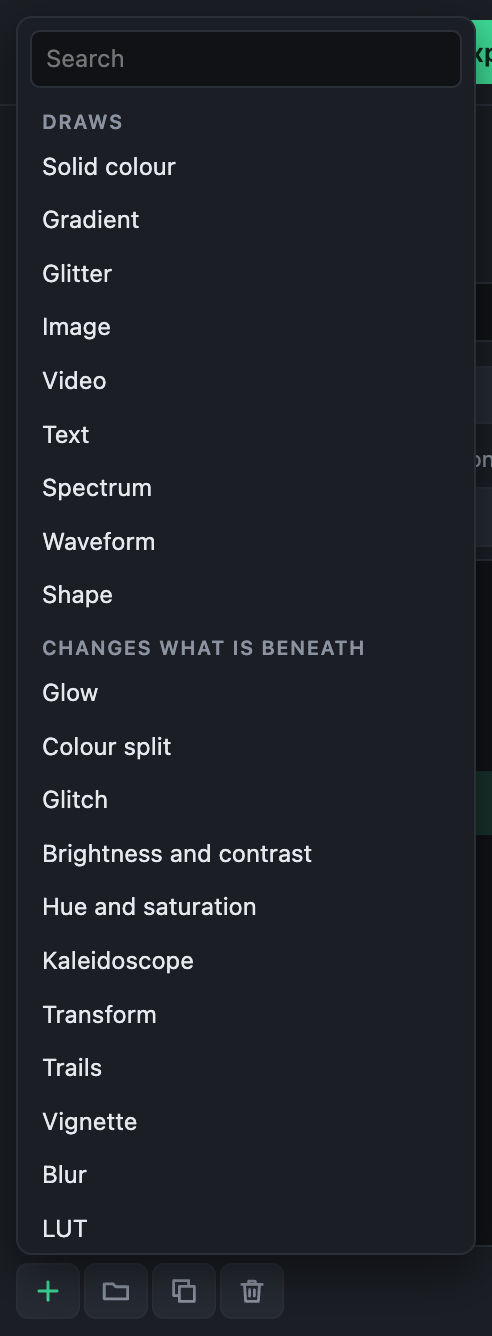
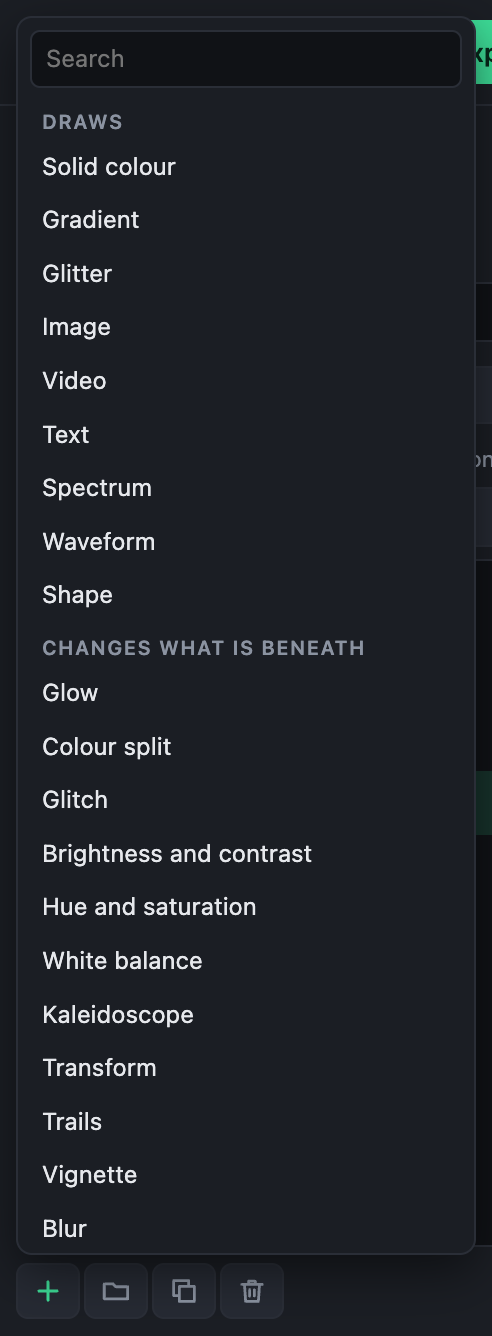
A White balance layer
An effect that warms or cools the colours beneath it and moves them
towards green or magenta, to correct a photo or video taken under the
wrong light; in a group with a picture, it changes only that picture.
Temperature and Tint each go from -1 to 1, and a grey keeps its
lightness. The scaling of red, green and blue is a LUT of two points a
side, which reproduces it exactly, so it runs on the LUT layer's path:
the graphics card, or else the processor.

Changed region(s): [[0.0915, 0.7058, 0.4268, 0.7672], [0.0915, 0.7979, 0.3049, 0.9513]]

diff --git a/src/visuals/draw.ts b/src/visuals/draw.ts
@@ -7,13 +7,13 @@
 //
 // Kept free of Node imports; it runs in a window.
 
-import { fromHsl, mixColours, parseHex, turnHue, type Colour } from './colour.ts';
+import { fromHsl, mixColours, parseHex, turnHue, whiteBalance, type Colour } from './colour.ts';
 import { BAND_COUNT, HIGHEST_HZ, LOWEST_HZ } from '../features.ts';
 import type { Values } from './expression.ts';
 import { fontStack } from './fonts.ts';
 import { hexOf, LAYER_TYPES, type PreparedLayer, type ResolvedParams, type TextValues } from './template.ts';
 import type { ClipTiming, Playback } from './clip.ts';
-import { applyLut, type Lut } from './lut.ts';
+import { applyLut, scalingLut, type Lut } from './lut.ts';
 import { lengthOf, shapeOutline } from './outline.ts';
 
 type Canvas = HTMLCanvasElement | OffscreenCanvas;
@@ -314,6 +314,7 @@ export class FrameDrawer {
       case 'trails': this.#trails(params, frame, memory); break;
       case 'blur': this.#blurred((Math.max(0, num(params, 'radius')) / 100) * this.#unit); break;
       case 'lut': this.#lut(params, frame); break;
+      case 'whiteBalance': this.#whiteBalance(params); break;
     }
     into.restore();
     if (!alone) return;
@@ -1320,7 +1321,31 @@ export class FrameDrawer {
   /** The picture beneath, through a colour lookup table. */
   #lut(params: ResolvedParams, frame: Frame) {
     const lut = frame.luts?.get(str(params, 'lut'));
-    if (!lut) return;
+    if (lut) this.#throughLut(lut);
+  }
+
+  /** White balances' LUTs, by their scalings, so that one that holds still is made, and sent to the graphics card, once. */
+  #balances = new Map<string, Lut>();
+
+  /** White balance: each of red, green and blue of the picture beneath scaled, through a LUT that does just that. */
+  #whiteBalance(params: ResolvedParams) {
+    const temperature = num(params, 'temperature');
+    const tint = num(params, 'tint');
+    if (temperature === 0 && tint === 0) return;
+    const gains = whiteBalance(temperature, tint);
+    const key = gains.map((gain) => gain.toFixed(4)).join();
+    let lut = this.#balances.get(key);
+    if (!lut) {
+      // One following the music is new each frame: only the last few are kept.
+      if (this.#balances.size >= 16) this.#balances.clear();
+      lut = scalingLut(gains);
+      this.#balances.set(key, lut);
+    }
+    this.#throughLut(lut);
+  }
+
+  /** The picture beneath through a LUT: on the graphics card, or else on the processor. */
+  #throughLut(lut: Lut) {
     const { width, height } = this.#canvas;
     if (this.#lutGl === undefined) this.#lutGl = LutGl.make();
     const result = this.#lutGl?.apply(this.#surface, lut, width, height);

diff --git a/test/lut.test.ts b/test/lut.test.ts
@@ -1,6 +1,7 @@
 import assert from 'node:assert/strict';
 import { test } from 'node:test';
-import { applyLut, packLut, parseCube, sampleLut, unpackLut } from '../src/visuals/lut.ts';
+import { applyLut, packLut, parseCube, sampleLut, scalingLut, unpackLut } from '../src/visuals/lut.ts';
+import { whiteBalance } from '../src/visuals/colour.ts';
 import { checkTemplate, folderLutsOf, keepFolderLuts, lutsOf, prepare } from '../src/visuals/template.ts';
 import { MUSIC_NAMES } from '../src/visuals/music.ts';
 
@@ -115,4 +116,28 @@ test('a template exported keeps the LUT folder\'s LUTs it names, once each, and 
   assert.equal(shared.fields[0].default, 'lut:Warm 2');
   assert.deepEqual(folderLutsOf(shared), []);
   assert.equal(template.layers[0].params.lut, 'lutfolder:Film/Warm', 'the template itself is left as it was');
+});
+
+test('a white balance warms, cools and tints, and leaves a grey as light as it was', () => {
+  const lightness = ([r, g, b]: number[]) => 0.2126 * r + 0.7152 * g + 0.0722 * b;
+  assert.deepEqual(whiteBalance(0, 0), [1, 1, 1]);
+  const warm = whiteBalance(1, 0);
+  assert.ok(warm[0] > 1 && warm[2] < 1 && warm[0] > warm[1] && warm[1] > warm[2], `warmer is more red and less blue: ${warm}`);
+  const cool = whiteBalance(-1, 0);
+  assert.ok(cool[2] > cool[1] && cool[1] > cool[0], `cooler is more blue: ${cool}`);
+  const magenta = whiteBalance(0, 1);
+  assert.ok(magenta[1] < magenta[0] && Math.abs(magenta[0] - magenta[2]) < 1e-12, `magenta is less green: ${magenta}`);
+  for (const gains of [warm, cool, magenta, whiteBalance(0, -1), whiteBalance(0.4, -0.7)]) assert.ok(Math.abs(lightness(gains) - 1) < 1e-12);
+  assert.deepEqual(whiteBalance(5, -5), whiteBalance(1, -1), 'past the ends of the sliders it goes no further');
+});
+
+test('a LUT of two points a side scales each channel exactly, cut off only at full', () => {
+  const lut = scalingLut([1.2, 1, 0.5]);
+  for (const [r, g, b] of [[0, 0, 0], [0.5, 0.25, 1], [0.8, 0.9, 0.3], [1, 1, 1]]) {
+    const [or, og, ob] = sampleLut(lut, r, g, b);
+    assert.ok(Math.abs(or - r * 1.2) < 1e-6 && Math.abs(og - g) < 1e-6 && Math.abs(ob - b * 0.5) < 1e-6, `${r} ${g} ${b} gave ${or} ${og} ${ob}`);
+  }
+  const pixels = new Uint8ClampedArray([100, 100, 100, 255, 250, 10, 200, 128]);
+  applyLut(lut, pixels);
+  assert.deepEqual([...pixels], [120, 100, 50, 255, 255, 10, 100, 128], 'red past full stops at 255, and alpha is left alone');
 });

diff --git a/test/lut-window.test.ts b/test/lut-window.test.ts
@@ -10,6 +10,7 @@ import { join } from 'node:path';
 import { after, before, test } from 'node:test';
 import { ffmpeg } from '../src/audio-io.ts';
 import { packLut, parseCube } from '../src/visuals/lut.ts';
+import { whiteBalance } from '../src/visuals/colour.ts';
 import { writeSyntheticMix } from './synthetic-mix.ts';
 import { readZip, readZipEntry } from '../src/app/zip.ts';
 import { dataFolder, electronPath, runApp, workFolder } from './window-app.ts';
@@ -219,4 +220,28 @@ test('the LUT folder\'s LUTs are offered, stepped through with the arrow keys, n
   const json = JSON.parse((await readZipEntry(exported, items[0])).toString('utf8'));
   assert.deepEqual(Object.keys(json.luts), ['Swap']);
   assert.ok(json.layers.some((layer: { params: { lut?: string } }) => layer.params.lut === 'lut:Swap'));
+});
+
+test('a white balance warms a grey picture without making it lighter', { skip }, async () => {
+  const file = join(work, 'Warm.djmtemplate');
+  await writeFile(file, JSON.stringify({
+    format: 2, name: 'Warm', fields: [],
+    layers: [
+      { type: 'solid', params: { colour: '#808080' } },
+      { type: 'whiteBalance', params: { temperature: 1, tint: 0.5 } },
+    ],
+  }));
+  const data = await dataFolder(work, analysed);
+  const seen = await runApp({ recording: mix, data, template: file, timeoutMs: 60_000 }, async (page) => {
+    page.click('view-video');
+    page.click('template-import');
+    const select = page.element<HTMLSelectElement>('template');
+    await page.until(() => select.selectedOptions[0]?.text === 'Warm', 'the template to be added');
+    const picture = page.element<HTMLCanvasElement>('picture');
+    const middle = () => [...picture.getContext('2d')!.getImageData(picture.width / 2, picture.height / 2, 1, 1).data].slice(0, 3);
+    await page.until(() => middle()[0] > 140, 'the picture to be warmed');
+    return middle();
+  });
+  const want = whiteBalance(1, 0.5).map((gain) => 128 * gain);
+  seen.forEach((value, i) => assert.ok(Math.abs(value - want[i]) <= 2, `drawn ${seen}, should be about ${want.map(Math.round)}`));
 });

diff --git a/src/visuals/colour.ts b/src/visuals/colour.ts
@@ -119,3 +119,22 @@ const withLch = (colour: Colour, change: (lch: Lch) => Lch) => fromLch(change(to
 export const turnHue = (colour: Colour, degrees: number) => withLch(colour, (c) => ({ ...c, h: (((c.h + degrees) % 360) + 360) % 360 }));
 export const lighten = (colour: Colour, amount: number) => withLch(colour, (c) => ({ ...c, l: c.l + amount }));
 export const saturate = (colour: Colour, amount: number) => withLch(colour, (c) => ({ ...c, c: c.c * (1 + amount) }));
+
+/**
+ * How much to scale red, green and blue by to warm or cool a picture and
+ * move it towards green or magenta, as a photo editor's white balance does.
+ * `temperature` goes from -1 (cooler, towards blue) to 1 (warmer, towards
+ * amber); `tint` from -1 (towards green) to 1 (towards magenta). The three
+ * are scaled together so that a grey keeps its lightness: the colour moves,
+ * the picture does not get brighter or darker.
+ */
+export function whiteBalance(temperature: number, tint: number): [number, number, number] {
+  // At the ends of the sliders, a fair correction for a photo taken under the wrong light, no further.
+  const reach = 0.3;
+  const t = Math.max(-1, Math.min(1, temperature)) * reach;
+  const m = Math.max(-1, Math.min(1, tint)) * reach;
+  const [r, g, b] = [1 + t, 1 - m, 1 - t];
+  // The lightness of grey, as sRGB weighs the three.
+  const light = 0.2126 * r + 0.7152 * g + 0.0722 * b;
+  return [r / light, g / light, b / light];
+}

diff --git a/src/visuals/lut.ts b/src/visuals/lut.ts
@@ -199,6 +199,23 @@ export function sampleLut(lut: Lut, r: number, g: number, b: number, into: Float
 }
 
 /**
+ * A LUT that scales red, green and blue by these amounts. Two points a side
+ * are enough: a LUT is read in straight lines between its points, and a
+ * scaling is a straight line, so it comes out exact, over 1 included until
+ * the picture's own 8 bits cut it off.
+ */
+export function scalingLut([r, g, b]: [number, number, number]): Lut {
+  const data = new Float32Array(2 * 2 * 2 * 3);
+  let i = 0;
+  for (let z = 0; z < 2; z++) for (let y = 0; y < 2; y++) for (let x = 0; x < 2; x++) {
+    data[i++] = x * r;
+    data[i++] = y * g;
+    data[i++] = z * b;
+  }
+  return { size: 2, data, min: [0, 0, 0], max: [1, 1, 1] };
+}
+
+/**
  * Sends pixels (RGBA, 8 bits each, not premultiplied, as `getImageData`
  * gives them) through the LUT in place. For where the graphics card cannot
  * be used: a 1080p frame takes some tens of milliseconds this way.

diff --git a/src/visuals/template.ts b/src/visuals/template.ts
@@ -379,6 +379,17 @@ export const LAYER_TYPES: Record<string, LayerSpec> = {
       lightness: number('Lightness', 0, -1, 1),
     },
   },
+  whiteBalance: {
+    label: 'White balance',
+    description: 'Warms or cools the colours of the picture beneath, and moves them towards green or magenta: to correct a photo or video taken under the wrong light, or to give it a mood. In a group with a picture, it changes only that picture.',
+    effect: true,
+    // The whole picture beneath, as a photo editor's white balance: it has no place or size of its own.
+    params: {
+      temperature: number('Temperature: cooler to warmer', 0, -1, 1),
+      tint: number('Tint: green to magenta', 0, -1, 1),
+    },
+    common: ['visible', 'opacity', 'blend', 'from', 'until', 'fadeIn', 'fadeOut'],
+  },
   kaleidoscope: {
     label: 'Kaleidoscope',
     description: 'Repeats a slice of the picture beneath all the way round a point, mirrored or not, as a kaleidoscope does.',

diff --git a/test/window.test.ts b/test/window.test.ts
@@ -1559,7 +1559,7 @@ test('the + menu opens with Shift+⌘N, fits the window, scrolls, and finds a ki
     return { listHeight, opened, found, added, closed, short };
   });
   assert.ok(seen.listHeight >= 220, `the list starts tall: ${seen.listHeight}`);
-  assert.deepEqual(seen.opened, { fits: true, focused: true, kinds: 21 });
+  assert.deepEqual(seen.opened, { fits: true, focused: true, kinds: 22 });
   assert.deepEqual(seen.found, ['Glitter', 'Glitch']);
   assert.equal(seen.added, 'Glitter', 'Enter adds the first that matches');
   assert.ok(seen.closed);

diff --git a/CHANGELOG.md b/CHANGELOG.md
@@ -6,6 +6,9 @@ are under "Not released yet" and appear there once they are.
 
 ## Not released yet
 
+- **A White balance layer.** Warms or cools the colours beneath it and moves
+  them towards green or magenta, to correct a photo or video taken under the
+  wrong light. Put it in a group with a picture to change only that picture.
 - **Amounts go from 0 to 1.** Opacities, a tint's amount, brightness,
   saturation, a glow's strength and the other settings that say how much,
   rather than where or how big, are now fractions instead of percentages: an
